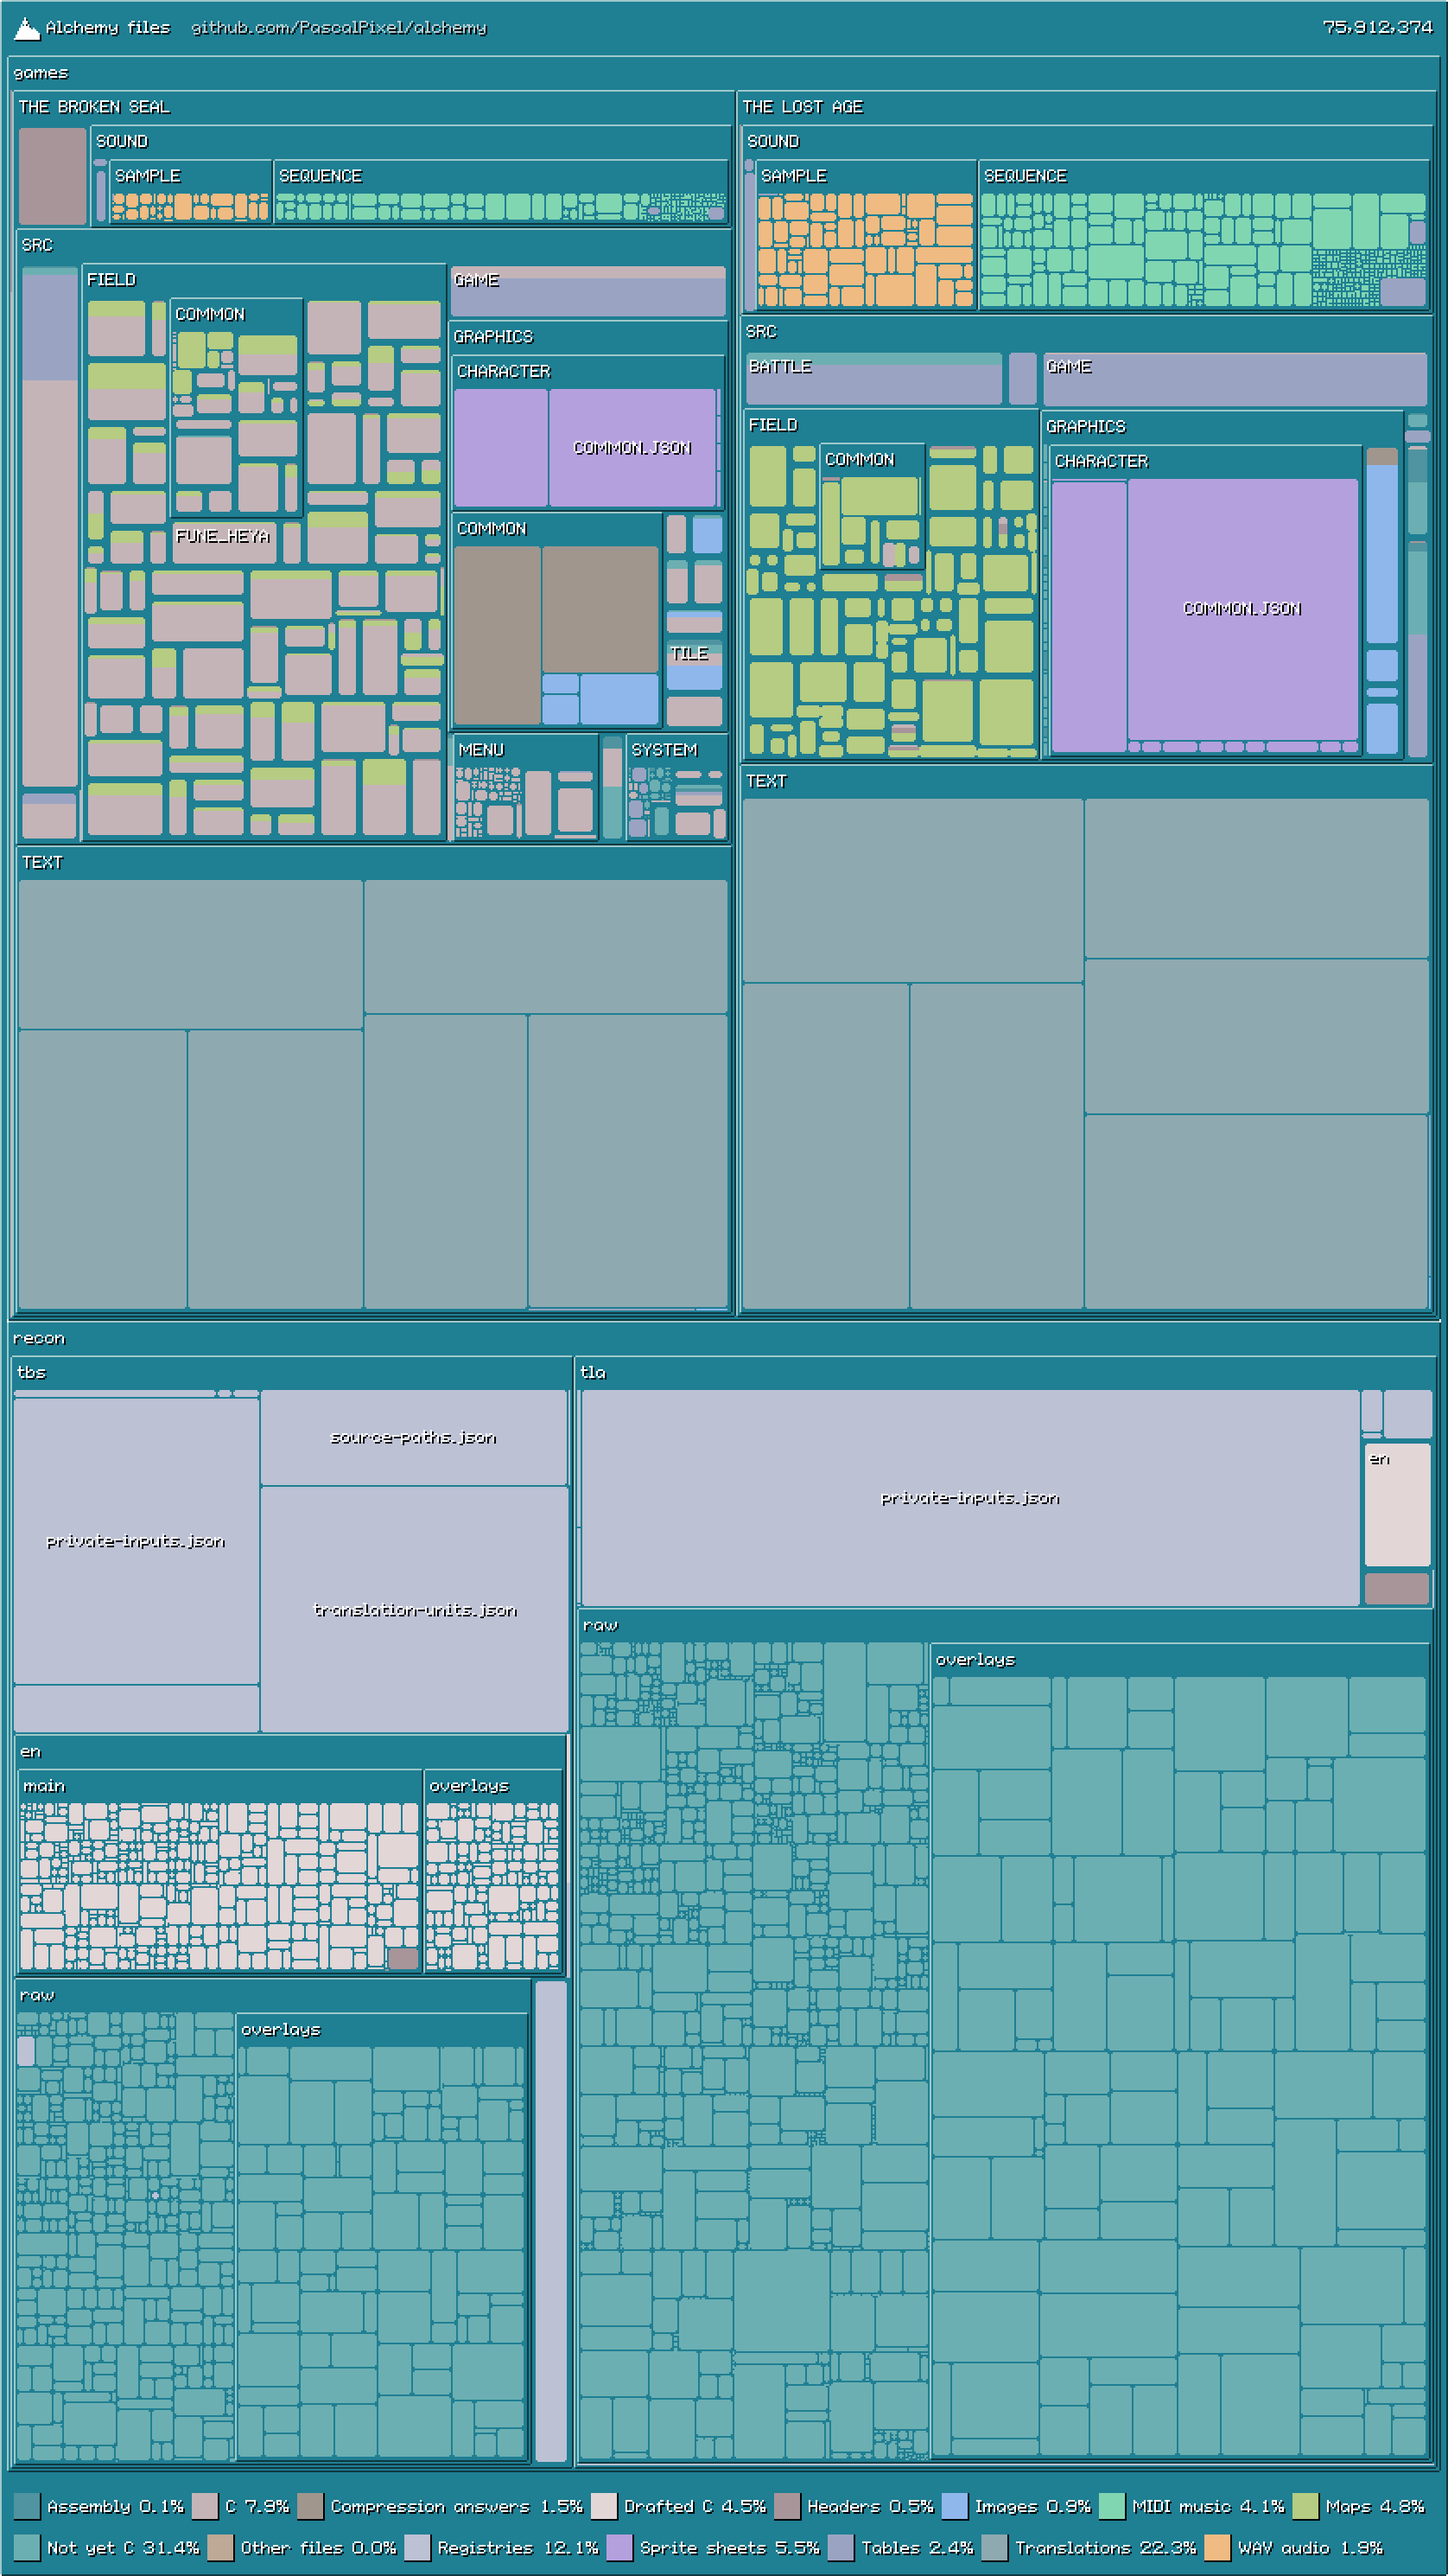
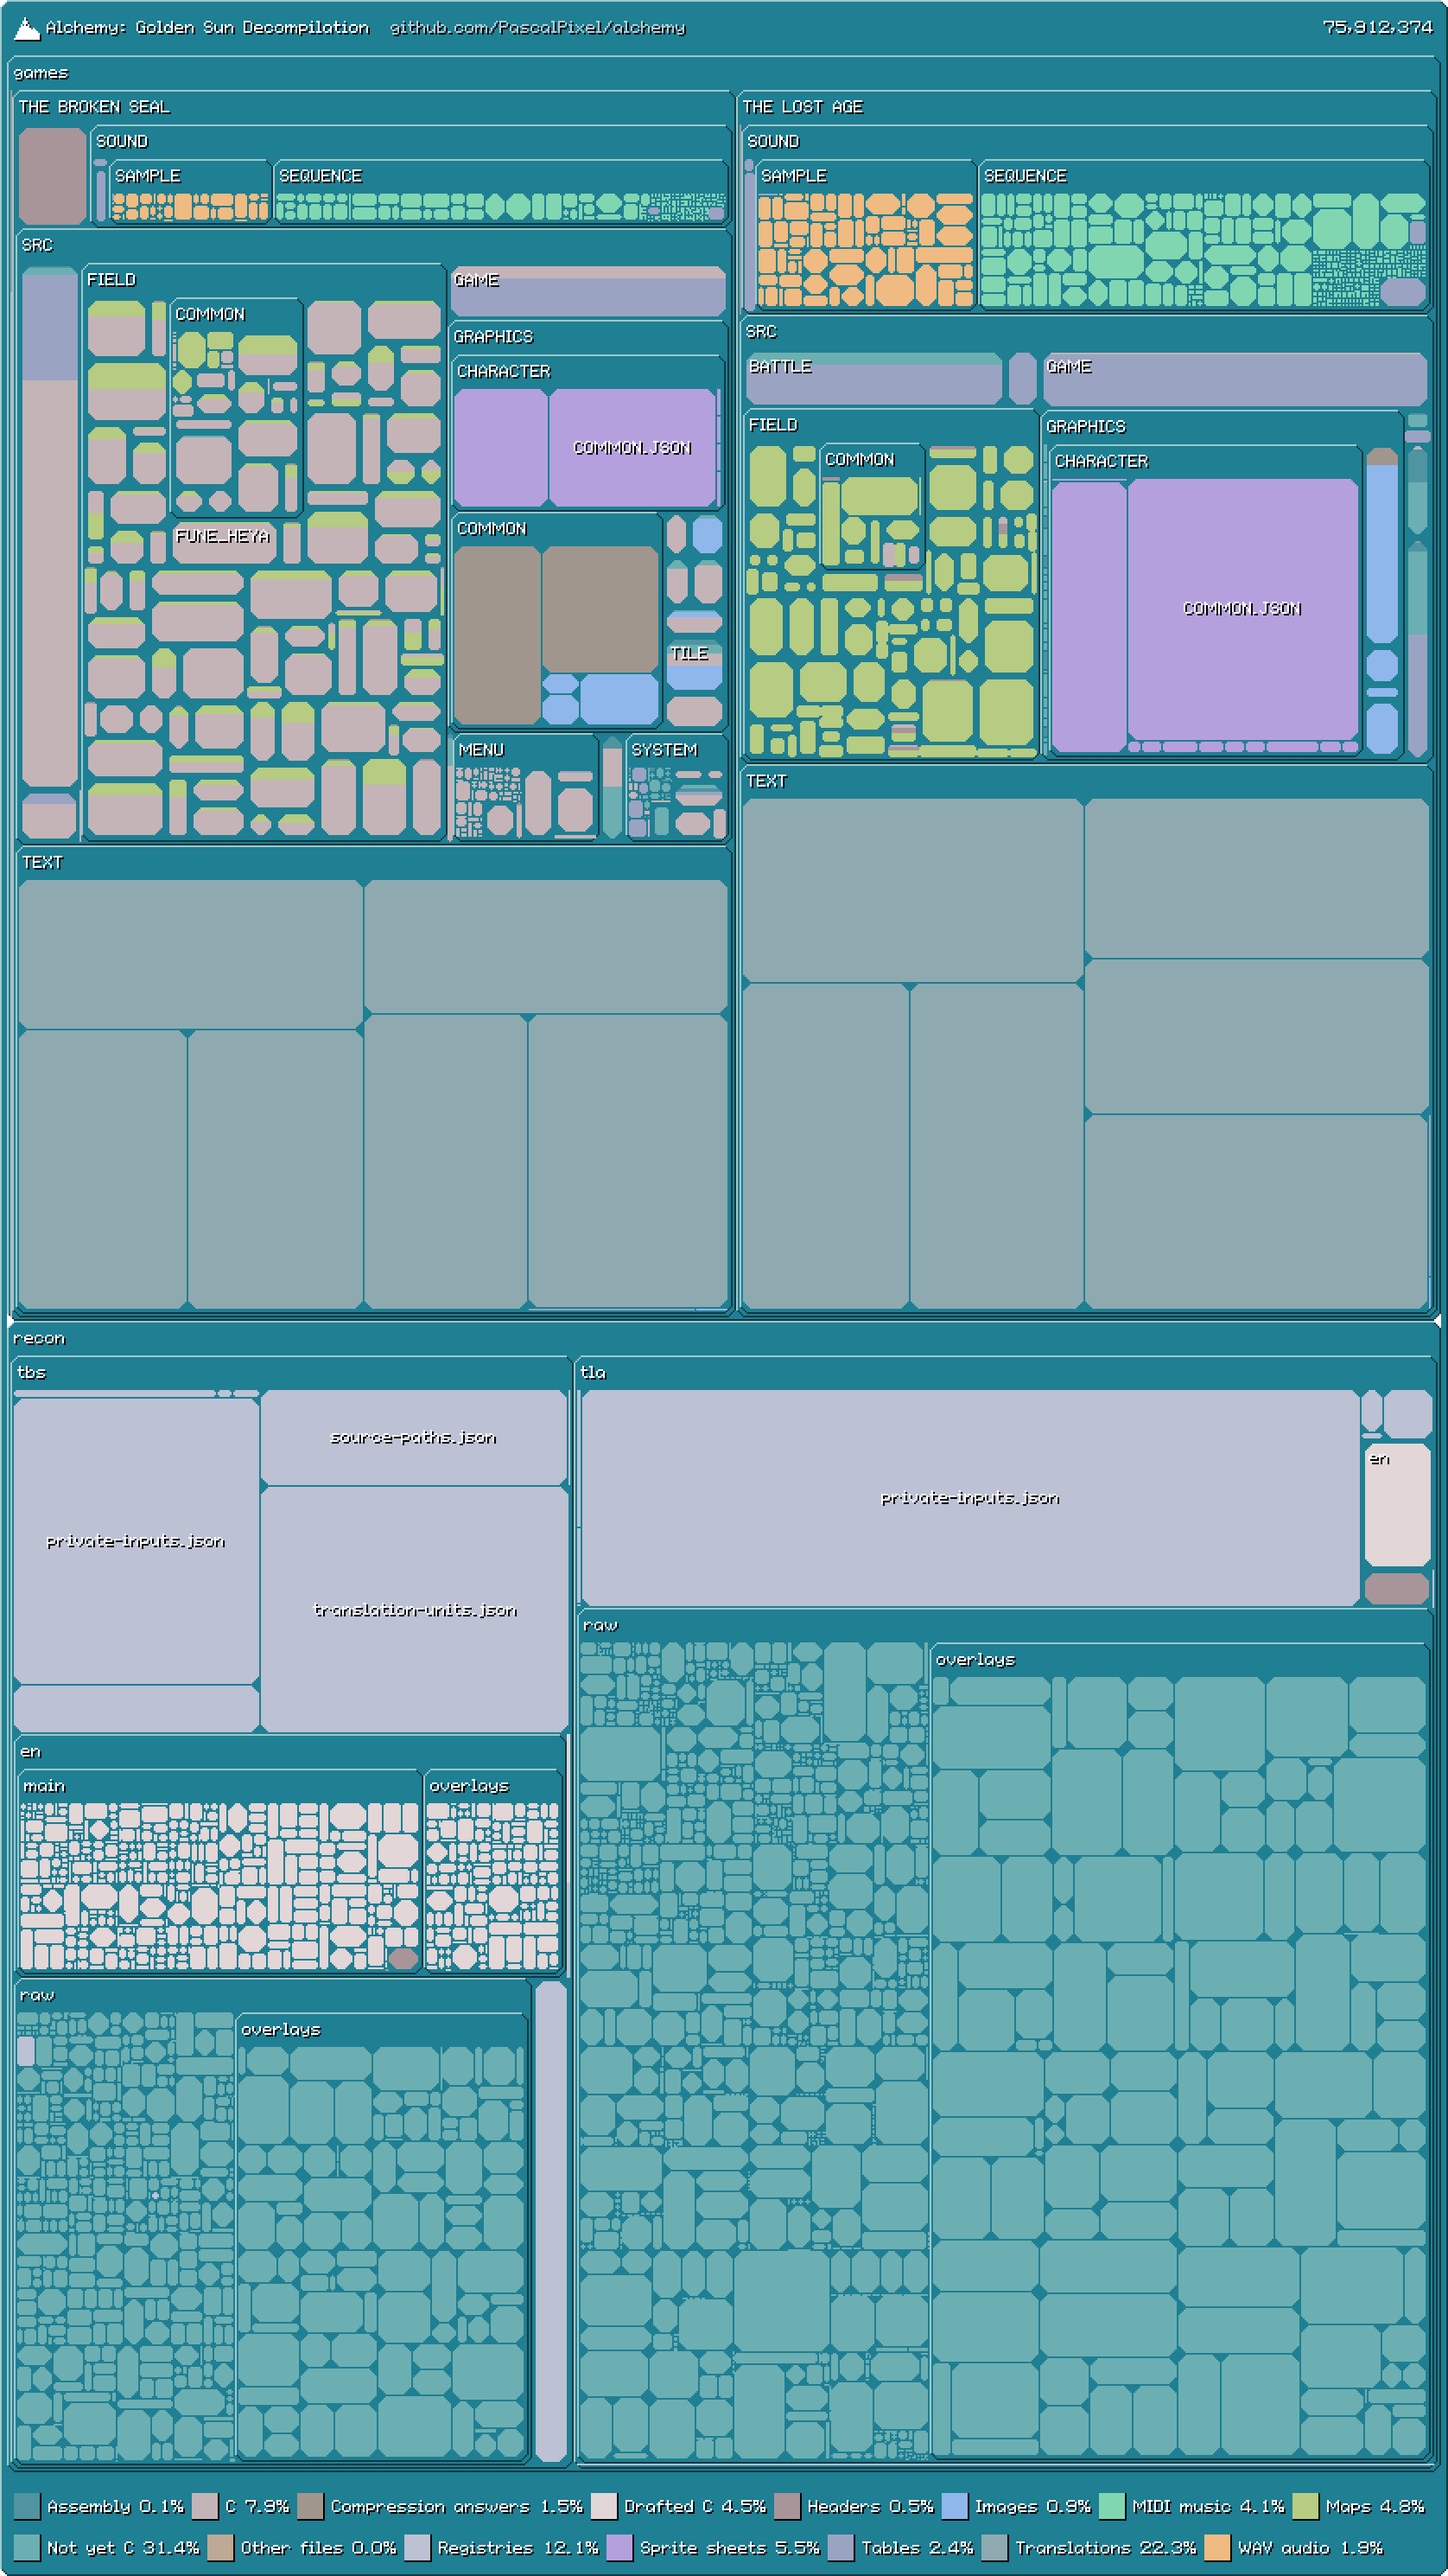
☀ 71% ⚓ 2% – Weyard UI: five-pixel stepped corners; both README figures titled Alchemy: Golden Sun Decompilation

diff --git a/tools/alchemy/src/coverage/palette.rs b/tools/alchemy/src/coverage/palette.rs
@@ -8,7 +8,7 @@
 /// Every raised or sunken box's corner, in game pixels: the pixels nearer the
 /// corner than this step along the diagonal are cut away, so the bevel steps
 /// diagonally past them. 2 is the smallest step, the corner pixel alone.
-pub(crate) const CORNER: i32 = 2;
+pub(crate) const CORNER: i32 = 5;
 /// The opacity in percent of every light bevel line (`LIGHT`, and `BAND` as
 /// the inner highlight); dark bevels stay opaque.
 pub(crate) const LIGHT_OPACITY: u32 = 75;
@@ -109,7 +109,7 @@ mod tests {
     use super::*;
     #[test]
     fn corners_step_on_whole_pixels() {
-        assert_eq!(CORNER, 2);
+        assert_eq!(CORNER, 5);
         // A two-pixel step cuts the corner pixel alone.
         assert!(cut(0, 0, 2) && !cut(1, 0, 2) && !cut(0, 1, 2));
         assert!(!cut(0, 0, 0));
@@ -117,12 +117,15 @@ mod tests {
             (corner_for(40, 5), corner_for(3, 9), corner_for(2, 9)),
             (2, 2, 0)
         );
+        // Each corner is a stair of CORNER - 1 steps: 2 * (CORNER - 1) + 1 points.
+        let one = clip_path(1, None);
         assert_eq!(
-            clip_path(1, None),
-            "polygon(0 1px,1px 1px,1px 0,calc(100% - 1px) 0,calc(100% - 1px) 1px,100% 1px,100% calc(100% - 1px),calc(100% - 1px) calc(100% - 1px),calc(100% - 1px) 100%,1px 100%,1px calc(100% - 1px),0 calc(100% - 1px))"
+            one.matches(',').count() + 1,
+            4 * (2 * (CORNER as usize - 1) + 1)
         );
+        assert!(one.starts_with("polygon(0 4px,1px 4px,1px 3px"));
         assert!(
-            clip_path(2, Some(30)).starts_with("polygon(0 min(2px,30%),min(2px,30%) min(2px,30%)")
+            clip_path(2, Some(30)).starts_with("polygon(0 min(8px,30%),min(2px,30%) min(8px,30%)")
         );
     }
 }

diff --git a/tools/alchemy/src/coverage/figure.rs b/tools/alchemy/src/coverage/figure.rs
@@ -70,7 +70,7 @@ pub(crate) fn chart(letters: &Letters, history: &Value) -> Canvas {
     });
     // Title and key along the top line; each game's mark, in its line's
     // colour, is its swatch.
-    let masthead_end = masthead(&mut canvas, letters, 6, "Alchemy: DONE by day");
+    let masthead_end = masthead(&mut canvas, letters, 6, "Alchemy: Golden Sun Decompilation");
     let mut key_x = WIDTH - 8;
     for (key, name, ink) in series.iter().rev() {
         key_x -= letters.width(name) as i32;
@@ -379,7 +379,7 @@ pub(crate) fn map_of(letters: &Letters, tiles: Vec<Tile>) -> Canvas {
         }
         row_x += entry(label);
     }
-    masthead(&mut canvas, letters, 8, "Alchemy files");
+    masthead(&mut canvas, letters, 8, "Alchemy: Golden Sun Decompilation");
     let corner = commas(total);
     let corner_width = letters.width(&corner) as i32;
     canvas.text(
@@ -656,10 +656,12 @@ mod tests {
             rgb(FACE),
             crate::coverage::palette::LIGHT_OPACITY,
         );
+        let step = crate::coverage::palette::CORNER - 1;
         assert_eq!(canvas.get(0, 0), None);
-        assert_eq!(canvas.get(1, 0), Some(light));
+        assert_eq!(canvas.get(step - 1, 0), None);
+        assert_eq!(canvas.get(step, 0), Some(light));
         assert_eq!(canvas.get(4, 32), Some(rgb(FACE)));
-        assert_eq!(canvas.get(5, 32), Some(light));
+        assert_eq!(canvas.get(4 + step, 32), Some(light));
         let again = map_of(
             &letters,
             vec![tile("games/X/SRC/A.C", 600), tile("games/X/SRC/B.S", 400)],
